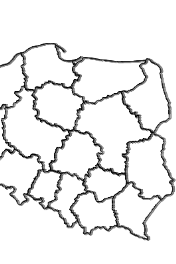
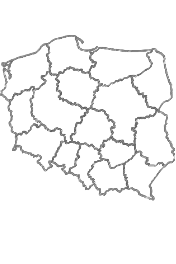
new c

Changed region(s): [[0.0, 0.1212, 1.0, 0.9091], [0.0, 0.5758, 0.0284, 0.6061]]

diff --git a/Antistorm.py b/Antistorm.py
@@ -24,7 +24,7 @@ class AntiStormGenerator:
     imagesTempDir = 'temp'
     outputImage = 'out.png'
     expectedChunksCount = 6
-    targetSize = (350, 350)
+    targetSize = (290, 290)
     einkSize = (176, 264)
     warsawPosition = (230, 135)
     warsawPositionColor = (250, 50, 0)
@@ -77,7 +77,7 @@ class AntiStormGenerator:
 		
         self.markWarsaw(bg)
 
-        leftOffset = 120
+        leftOffset = 70
         cropped = bg.crop((leftOffset, 0, self.einkSize[0] + leftOffset, self.einkSize[1])) 
         cropped.save(self.outputImage, 'png')
 
